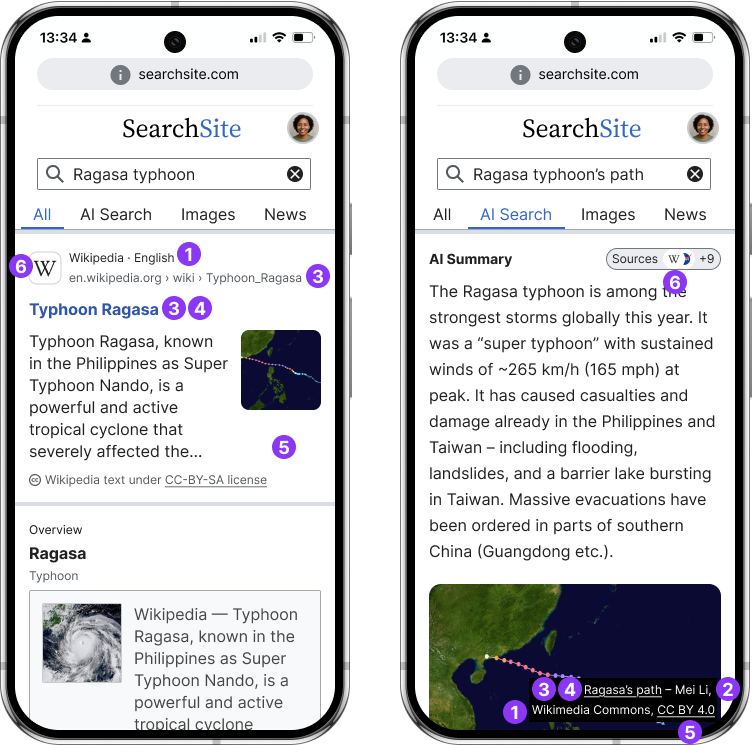
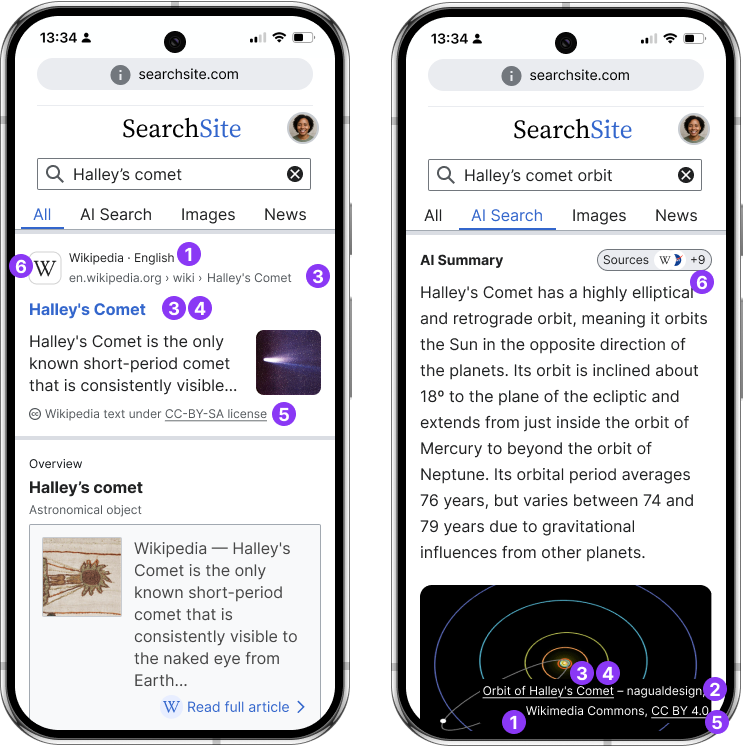
Mockups and styling updates for Search scenario

diff --git a/docs/.vitepress/theme/custom.css b/docs/.vitepress/theme/custom.css
@@ -32,3 +32,12 @@
 #VPSidebarNav div:first-of-type section {
   padding-bottom: 12px;
 }
+
+
+p img+em { /* Image caption. In markdown, emphasis right after the image is used as a caption */
+    display: block;
+    font-size: smaller;
+    color: #54595d; /* Codex token: color-subtle */
+    padding: 8px;
+    margin-bottom: 2em;
+}

diff --git a/docs/scenarios/search.md b/docs/scenarios/search.md
@@ -1,4 +1,4 @@
-# Search Engine Results Page
+# Search
 
 Search engines are one of the most visible and common ways people encounter Wikimedia content. Whether on classic result pages or AI-generated overviews, Wikipedia and its sister projects commonly stand as a fundamental source of the information provided to search engine users.
 
@@ -7,7 +7,10 @@ Search platforms amplify Wikimedia’s reach, and are a primary gateway to free 
 <WikipediaAttributionDemo />
 
 
-<!-- TODO: Mockups and note for search exmaples-->
+![Search attribution overview](../public/media/search-overview.png)
+*Mockup of a Search engine results page displaying minimal (left) and a combination of essential and recommended attribution signals (right)*
+
+> **Note** All the illustrations provided are only for orientation. Reusers may adjust the appearance of the signals to follow their design guidelines and their context’s visual style in order to ensure consistency.
 
 ## Essential attribution
 
